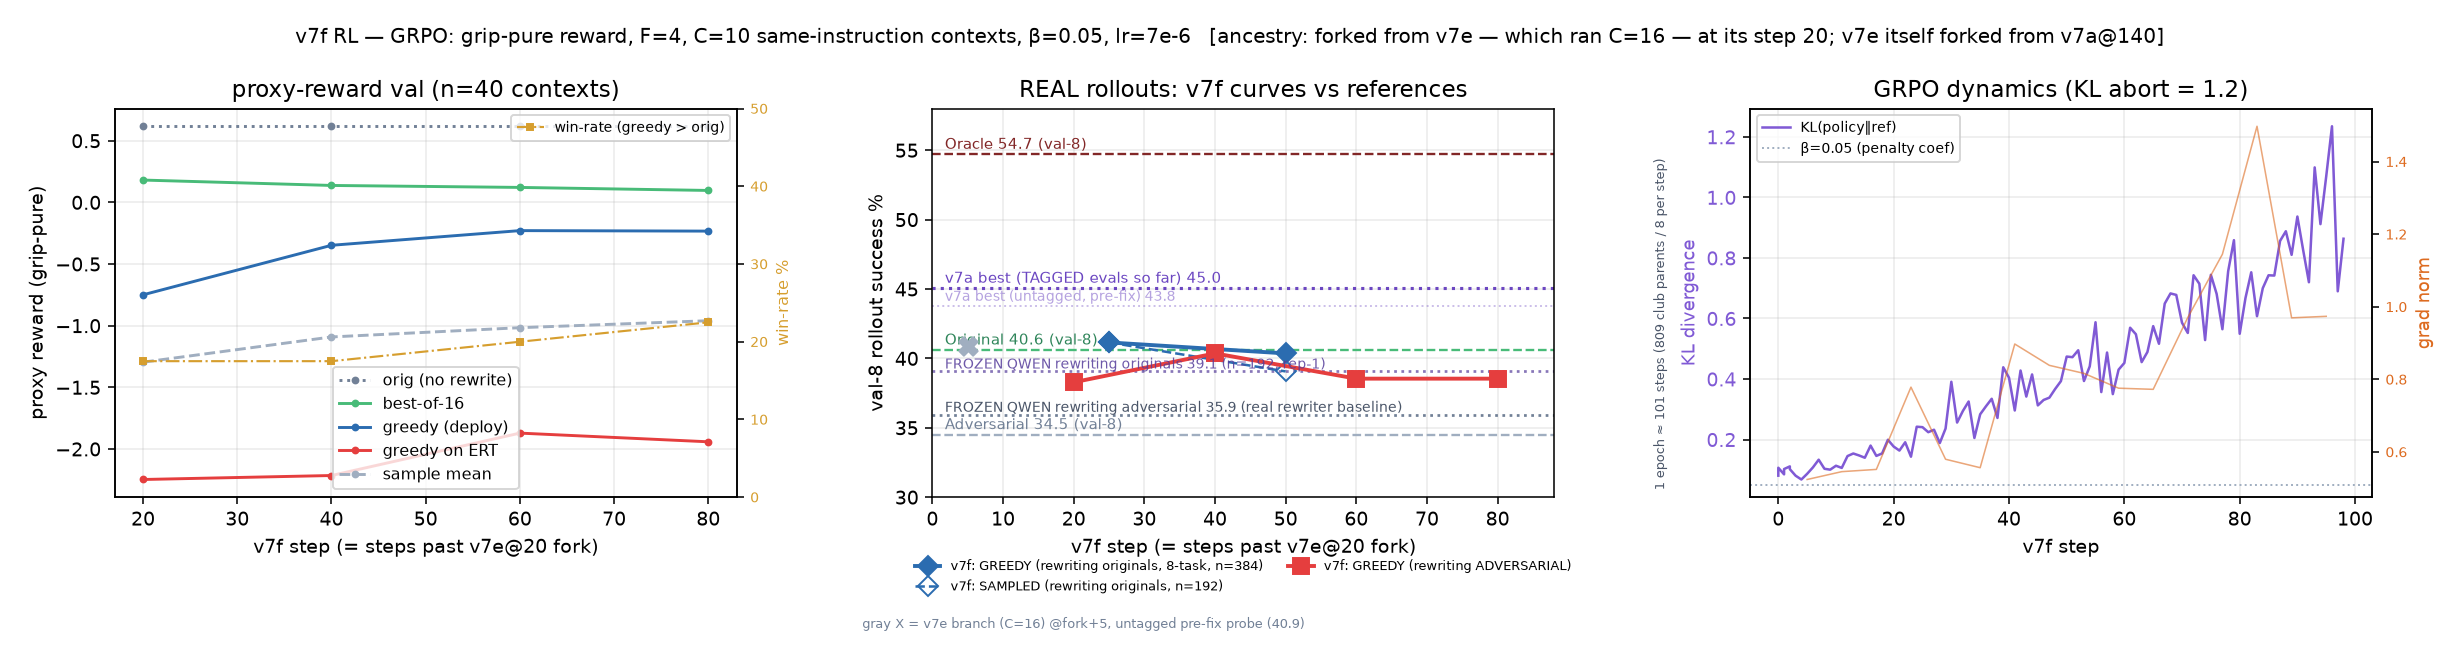
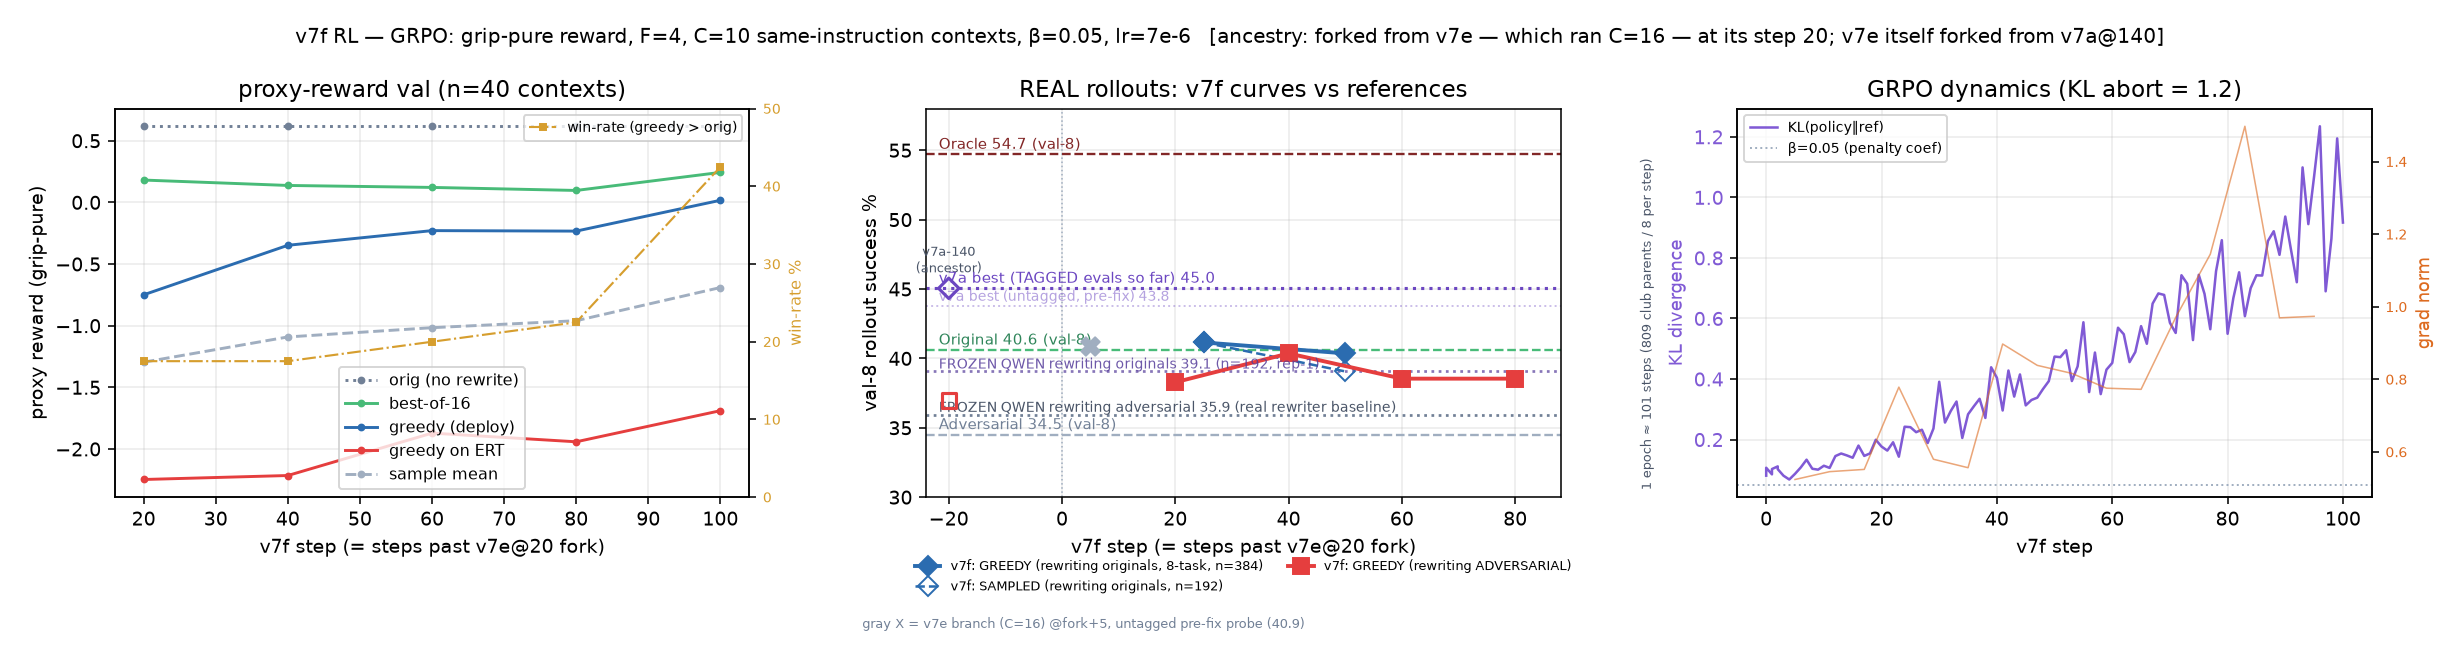
v7f chart: v7a-140 ancestry markers at x=-20; true step-0 (v7e@20) eval queued

diff --git a/scripts/make_v7f_progress.py b/scripts/make_v7f_progress.py
@@ -87,7 +87,12 @@ a1.grid(alpha=0.25)
 
 _adv_steps = [c["step"] for c in _merged("results/analysis/v7f_adv_curve.jsonl",
                                          "results/analysis/v7f_adv_curve_rep1.jsonl")]
-a2.set_xlim(0, max([c["step"] for c in curve] + _adv_steps + [30]) + 8)
+a2.set_xlim(-24, max([c["step"] for c in curve] + _adv_steps + [30]) + 8)
+# measured ancestry: v7a-140 (deep, tagged) = v7e's birth = x=-20 on this axis
+a2.scatter([-20], [45.05], marker="D", s=55, facecolor="none", edgecolor="#6b46c1", lw=1.6, zorder=4)
+a2.scatter([-20], [36.98], marker="s", s=55, facecolor="none", edgecolor="#e53e3e", lw=1.6, zorder=4)
+a2.text(-20, 46.2, "v7a-140\n(ancestor)", fontsize=6.5, color="#4a5568", ha="center")
+a2.axvline(0, ls=":", color="#a0aec0", lw=0.8)
 tr = a2.get_yaxis_transform()  # x in axes fraction, y in data units
 a2.axhline(54.7, ls="--", color="#822727", lw=1.2)
 a2.axhline(40.6, ls="--", color="#48bb78", lw=1.2)
